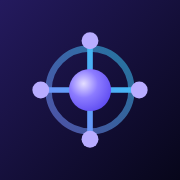
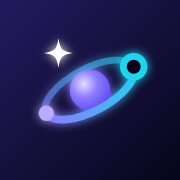
feat: OmniLLM mark and slogan "Your AI, Everywhere"
The mark is NEXA's family (tile, violet-to-cyan light, AI sparkle) with
its own figure: the hub as a core, devices on one orbit. Shown on the
phone's welcome, loading and chat list, the console header, the home
screen icons and the README.

Changed region(s): [[0.1667, 0.1667, 0.8611, 0.8333]]

diff --git a/web/app.css b/web/app.css
@@ -129,3 +129,19 @@ h1 { font-size: 21px; font-weight: 600; letter-spacing: -.02em; line-height: 1.3
 #chat-list button.cur { background: var(--accent-soft); color: var(--accent-text); font-weight: 500; }
 .drawer-foot { border-top: 1px solid var(--line); padding-top: 10px; display: flex; flex-direction: column; gap: 2px; }
 .warn-note { background: var(--warn-soft); color: var(--warn); border-left: 3px solid var(--warn); border-radius: 0 var(--r-s) var(--r-s) 0; padding: 8px 12px; font-size: 14px; }
+
+/* Brand, as in NEXA: the mark, the name over the slogan (never translated). */
+.brand { display: flex; align-items: center; gap: 10px; min-width: 0; }
+.brand-text { display: flex; flex-direction: column; min-width: 0; }
+.brand-name { font-size: 17px; font-weight: 500; line-height: 20px; letter-spacing: -.01em; color: var(--ink); }
+.brand-sub { font-size: 11px; line-height: 14px; letter-spacing: .03em; color: var(--muted); white-space: nowrap; overflow: hidden; text-overflow: ellipsis; }
+.drawer-panel .brand { margin-bottom: 18px; }
+.brand-mark { width: 32px; height: 32px; flex: none; display: block; }
+.hero { display: flex; flex-direction: column; align-items: center; gap: 4px; margin-bottom: 6px; }
+.hero .logo { margin-bottom: 10px; }
+.hero-name { font-size: 28px; font-weight: 600; line-height: 1.15; letter-spacing: -.025em; color: var(--ink); }
+.hero-sub { font-size: 12px; font-weight: 500; letter-spacing: .14em; text-transform: uppercase;
+  background: linear-gradient(90deg, var(--accent-text), var(--cyan)); -webkit-background-clip: text; background-clip: text; color: transparent; }
+.boot-mark { width: 56px; height: 56px; filter: drop-shadow(0 10px 24px rgba(114,77,231,.35)); }
+:root { --cyan: #0B8FAE; }
+@media (prefers-color-scheme: dark) { :root { --cyan: #22D3EE; } }

diff --git a/console/assets/app.css b/console/assets/app.css
@@ -55,8 +55,12 @@ body { background: var(--bg); color: var(--ink); font: 14px/1.6 var(--font); -we
 [hidden] { display: none !important; }
 
 .top { display: flex; align-items: center; gap: 12px; padding: 12px max(16px, env(safe-area-inset-left)); border-bottom: 1px solid var(--line); background: var(--surface); position: sticky; top: 0; z-index: 2; }
-.brand { display: flex; align-items: center; gap: 8px; font-weight: 600; letter-spacing: .01em; }
-.mark { width: 28px; height: 28px; display: block; }
+/* Brand, as in NEXA: the mark, the name over the slogan (never translated). */
+.brand { display: flex; align-items: center; gap: 10px; min-width: 0; }
+.brand-text { display: flex; flex-direction: column; min-width: 0; }
+.brand-name { font-size: 17px; font-weight: 500; line-height: 20px; letter-spacing: -.01em; color: var(--ink); }
+.brand-sub { font-size: 11px; line-height: 14px; letter-spacing: .03em; color: var(--muted); white-space: nowrap; overflow: hidden; text-overflow: ellipsis; }
+.mark { width: 32px; height: 32px; display: block; flex: none; }
 .status { flex: 1; min-width: 0; color: var(--muted); font-size: 13px; white-space: nowrap; overflow: hidden; text-overflow: ellipsis; }
 .status .dot { display: inline-block; width: 8px; height: 8px; border-radius: 50%; margin-right: 6px; vertical-align: 1px; background: var(--muted); }
 .status .dot.on { background: var(--ok); }
@@ -152,3 +156,5 @@ td.num { font-variant-numeric: tabular-nums; white-space: nowrap; }
 @media (prefers-reduced-motion: no-preference) {
   .toast { transition: opacity .2s; }
 }
+/* Narrow screens: the status line needs the room more than the slogan. */
+@media (max-width: 480px) { .top .brand-sub { display: none; } }

diff --git a/web/index.html b/web/index.html
@@ -21,13 +21,15 @@
 <body>
 <div id="app">
   <section id="boot" class="screen center">
+    <img src="icon.svg" alt="" class="boot-mark">
     <div class="spinner" aria-hidden="true"></div>
     <p id="boot-text" class="muted"></p>
     <button id="boot-retry" type="button" class="primary" data-t="bootRetry" hidden></button>
   </section>
 
   <section id="welcome" class="screen center" hidden>
-    <img src="icon.svg" alt="" class="logo">
+    <!-- Brand: the name and the slogan (the brand's own words, never translated). -->
+    <div class="hero"><img src="icon.svg" alt="" class="logo"><span class="hero-name">OmniLLM</span><span class="hero-sub">Your AI, Everywhere</span></div>
     <h1 data-t="welcomeTitle"></h1>
     <p class="muted" data-t="welcomeBody"></p>
     <button id="scan" class="primary" data-t="scan"></button>
@@ -80,6 +82,7 @@
 
   <aside id="drawer" class="drawer" hidden>
     <div class="drawer-panel">
+      <div class="brand"><img class="brand-mark" src="icon.svg" alt="" width="32" height="32"><span class="brand-text"><span class="brand-name">OmniLLM</span><span class="brand-sub">Your AI, Everywhere</span></span></div>
       <h2 data-t="chats"></h2>
       <ul id="chat-list"></ul>
       <div class="drawer-foot">

diff --git a/console/assets/index.html b/console/assets/index.html
@@ -10,7 +10,7 @@
 </head>
 <body>
 <header class="top">
-  <div class="brand"><img class="mark" src="icon.svg" alt="" width="28" height="28"><span>OmniLLM</span></div>
+  <div class="brand"><img class="mark" src="icon.svg" alt="" width="32" height="32"><span class="brand-text"><span class="brand-name">OmniLLM</span><span class="brand-sub">Your AI, Everywhere</span></span></div>
   <div class="status" id="status" aria-live="polite"></div>
   <div class="tools">
     <button type="button" class="ghost" id="lang" aria-label="Language">中文</button>

diff --git a/docs/design.md b/docs/design.md
@@ -591,6 +591,12 @@ NEXA（`pgclient`，Go）直接引入 OmniLLM 库。用户只装 NEXA：在 NEXA
 - 每条回答带上回答它的模型名；“订阅”只指 claude-code / codex 提供方，不再等同于“只给人用”。
 - 外观与 NEXA 一致：配色、字号、圆角、阴影、聚焦都取自 NEXA 的 Aurora（pgclient `web/static/app.css`，docs/32）；图标与 NEXA 同一家族。
 
+**品牌（2026-10-21，v0.2.0-alpha.19）**
+
+- 标志：NEXA 同一家族（深紫底、紫到青的光、白色 AI 星芒，64 格画布与 NEXA 的 favicon 相同），图形是 OmniLLM 自己的：中心发光的核是主机，倾斜的轨道（Omni 的 O）上的节点是各台设备，轨道前半圈压在核前面。文件 `web/icon.svg`（控制台用同一个文件的副本）；主屏图标 PNG 满铺底色、图形缩到 80% 安全区内（Android 会裁成圆形）。
+- 口号：**Your AI, Everywhere**。和 NEXA 的 “Where Agents Connect” 一样是品牌用语，不翻译。
+- 出现的地方：手机欢迎页（大标志、名字、渐变口号）、载入页（标志）、对话列表抽屉顶部和控制台顶栏（NEXA 的写法：32 px 标志，名字在上、口号在下）、README 顶部。控制台在 480 px 以下藏起口号，把位置留给连接状态。
+
 **alpha.17 全面测试后补的（2026-10-21，v0.2.0-alpha.18）**
 
 - 网页客户端每次配对只打开一次设备：网络恢复时的 “online” 事件不再重开设备（重开会关掉正在路上的回答）；打开的设备会自己重连。

diff --git a/README.md b/README.md
@@ -1,4 +1,8 @@
-# OmniLLM
+<p align="center"><img src="web/icon.svg" width="96" height="96" alt=""></p>
+
+<h1 align="center">OmniLLM</h1>
+
+<p align="center"><b>Your AI, Everywhere</b></p>
 
 **在一台电脑上登录大模型，手机、平板、服务器都能用。**
 *Log in to your LLM once, on one computer. Use it from every device you own.*

diff --git a/docs/changelog.md b/docs/changelog.md
@@ -1,5 +1,9 @@
 # 更新记录
 
+## v0.2.0-alpha.19（2026-10-21）
+
+- 新标志和口号 “Your AI, Everywhere”，和 NEXA 同一家族：手机网页的欢迎页、载入页、对话列表，控制台顶栏，主屏图标和 README 都换上了。
+
 ## v0.2.0-alpha.18（2026-10-21）
 
 alpha.17 上线后全面测试发现的问题：
